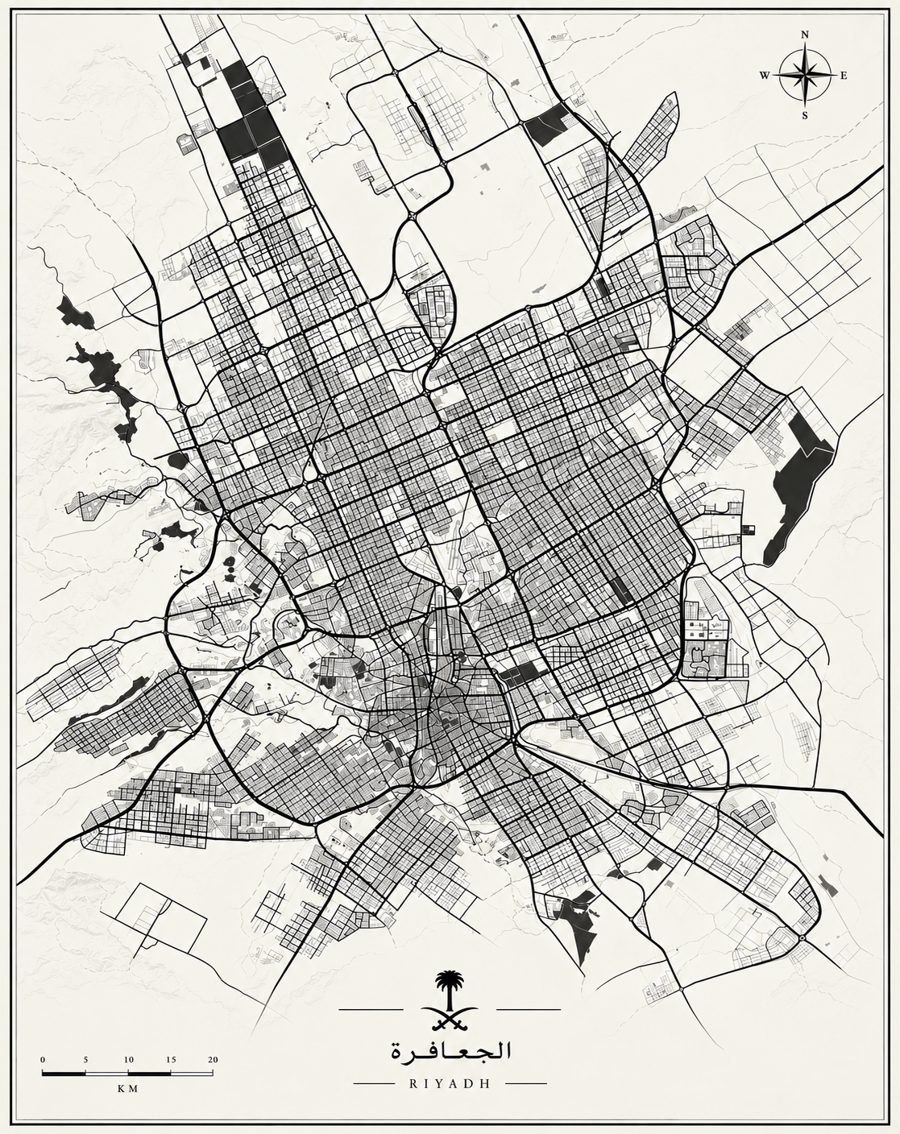
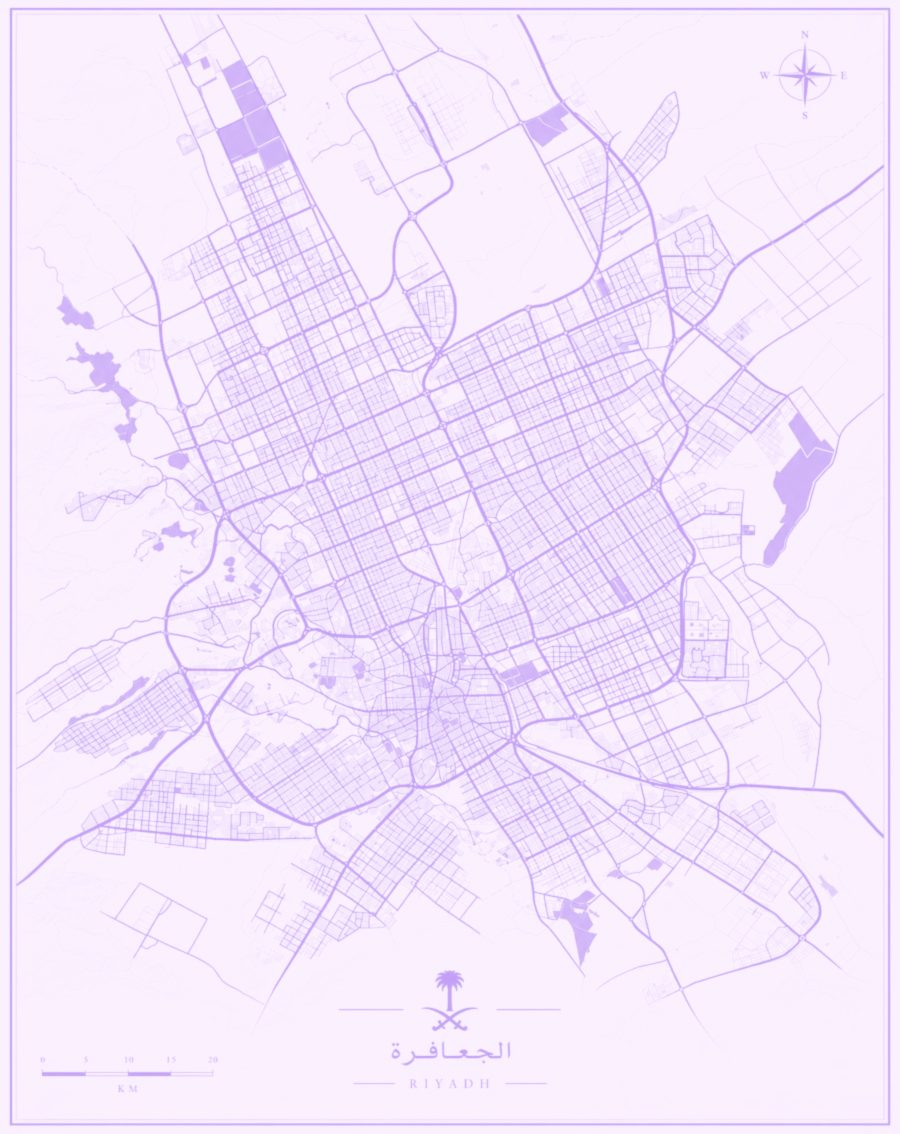
برا السالفة: خريطة قسم الجاسوس بألوان الموقع (بنفسجي فاتح وأخف)
Claude-Session: https://claude.ai/code/session_01B7z94MDfGPzHbShFpZmhZq

diff --git a/seenjeem/index.html b/seenjeem/index.html
@@ -25,13 +25,13 @@
 <script src="https://cdnjs.cloudflare.com/ajax/libs/qrcodejs/1.0.0/qrcode.min.js"></script>
 <script src="https://www.gstatic.com/firebasejs/10.12.2/firebase-app-compat.js"></script>
 <script src="https://www.gstatic.com/firebasejs/10.12.2/firebase-database-compat.js"></script>
-<script src="firebase-config.js?v=202610231047"></script>
-<script src="fncrypto.js?v=202610231047"></script>
-<script src="fnwake.js?v=202610231047"></script>
-<script src="fnfx.js?v=202610231047"></script>
-<script src="fnanim.js?v=202610231047"></script>
-<script src="shim.js?v=202610231047"></script>
-<script src="fnnight.js?v=202610231047"></script>
+<script src="firebase-config.js?v=202610231051"></script>
+<script src="fncrypto.js?v=202610231051"></script>
+<script src="fnwake.js?v=202610231051"></script>
+<script src="fnfx.js?v=202610231051"></script>
+<script src="fnanim.js?v=202610231051"></script>
+<script src="shim.js?v=202610231051"></script>
+<script src="fnnight.js?v=202610231051"></script>
 <style>
 /* Layout: a bright party-game board — lavender ground, white rounded cards; setup is one long page (name, teams, category cards with photos, settings) and the board is a grid of category columns, each with its cover and six cells */
 :root{
@@ -329,7 +329,7 @@ body.tv .media img.up{max-height:60vh}
 }
 @media (prefers-reduced-motion:reduce){*{animation:none!important;transition:none!important}}
 </style>
-<link rel="stylesheet" href="fntheme-sj.css?v=202610231047">
+<link rel="stylesheet" href="fntheme-sj.css?v=202610231051">
 
 <div class="wrap" dir="rtl" lang="ar">
   <nav class="gamesbar" aria-label="الألعاب"><a class="site" href="./" aria-label="الصفحة الرئيسية"><img src="favicon-64.png" alt="" width="22" height="22">Friday Night</a><a href="seenjeem/" class="on" aria-current="page">🎬 سين جيم</a><a href="outside/">🤫 برا السالفة</a><a href="sedq/">🤥 صدق ولا كذب</a><a href="mf/">👀 مين فينا؟</a><a href="draw/">🎨 ارسم وخمّن</a><a href="tv/">📺 شاشة العرض</a></nav>

diff --git a/draw/index.html b/draw/index.html
@@ -184,7 +184,7 @@ td.plus{color:var(--good)}
 .gamesbar a.site img{vertical-align:-5px;margin-inline-end:4px}
 @media (min-width:820px){.gamesbar{justify-content:center!important;margin-inline:0;padding-inline:0}}
 </style>
-<link rel="stylesheet" href="../fntheme.css?v=202610231047">
+<link rel="stylesheet" href="../fntheme.css?v=202610231051">
 </head>
 <body style="--game:#ff7a1a">
 <div class="wrap">
@@ -198,14 +198,14 @@ td.plus{color:var(--good)}
 <script src="https://cdnjs.cloudflare.com/ajax/libs/qrcodejs/1.0.0/qrcode.min.js"></script>
 <script src="https://www.gstatic.com/firebasejs/10.12.2/firebase-app-compat.js"></script>
 <script src="https://www.gstatic.com/firebasejs/10.12.2/firebase-database-compat.js"></script>
-<script src="../firebase-config.js?v=202610231047"></script>
-<script src="../fncrypto.js?v=202610231047"></script>
-<script src="../fnwake.js?v=202610231047"></script>
-<script src="board.js?v=202610231047"></script>
-<script src="../fnfx.js?v=202610231047"></script>
-<script src="../fnanim.js?v=202610231047"></script>
-<script src="../fnnight.js?v=202610231047"></script>
-<script src="app.js?v=202610231047"></script>
+<script src="../firebase-config.js?v=202610231051"></script>
+<script src="../fncrypto.js?v=202610231051"></script>
+<script src="../fnwake.js?v=202610231051"></script>
+<script src="board.js?v=202610231051"></script>
+<script src="../fnfx.js?v=202610231051"></script>
+<script src="../fnanim.js?v=202610231051"></script>
+<script src="../fnnight.js?v=202610231051"></script>
+<script src="app.js?v=202610231051"></script>
 <script>try{document.querySelector(".gamesbar .on").scrollIntoView({inline:"center",block:"nearest"})}catch(e){}</script>
 </body>
 </html>

diff --git a/mf/index.html b/mf/index.html
@@ -164,7 +164,7 @@ td.plus{color:var(--good)}
 .gamesbar a.site img{vertical-align:-5px;margin-inline-end:4px}
 @media (min-width:820px){.gamesbar{justify-content:center!important;margin-inline:0;padding-inline:0}}
 </style>
-<link rel="stylesheet" href="../fntheme.css?v=202610231047">
+<link rel="stylesheet" href="../fntheme.css?v=202610231051">
 </head>
 <body style="--game:#ffb21e">
 <div class="wrap">
@@ -178,13 +178,13 @@ td.plus{color:var(--good)}
 <script src="https://cdnjs.cloudflare.com/ajax/libs/qrcodejs/1.0.0/qrcode.min.js"></script>
 <script src="https://www.gstatic.com/firebasejs/10.12.2/firebase-app-compat.js"></script>
 <script src="https://www.gstatic.com/firebasejs/10.12.2/firebase-database-compat.js"></script>
-<script src="../firebase-config.js?v=202610231047"></script>
-<script src="../fncrypto.js?v=202610231047"></script>
-<script src="../fnwake.js?v=202610231047"></script>
-<script src="../fnfx.js?v=202610231047"></script>
-<script src="../fnanim.js?v=202610231047"></script>
-<script src="../fnnight.js?v=202610231047"></script>
-<script src="app.js?v=202610231047"></script>
+<script src="../firebase-config.js?v=202610231051"></script>
+<script src="../fncrypto.js?v=202610231051"></script>
+<script src="../fnwake.js?v=202610231051"></script>
+<script src="../fnfx.js?v=202610231051"></script>
+<script src="../fnanim.js?v=202610231051"></script>
+<script src="../fnnight.js?v=202610231051"></script>
+<script src="app.js?v=202610231051"></script>
 <script>try{document.querySelector(".gamesbar .on").scrollIntoView({inline:"center",block:"nearest"})}catch(e){}</script>
 </body>
 </html>

diff --git a/outside/index.html b/outside/index.html
@@ -129,7 +129,7 @@ td.plus{color:var(--good)}
 .gamesbar a.site img{vertical-align:-5px;margin-inline-end:4px}
 @media (min-width:820px){.gamesbar{justify-content:center!important;margin-inline:0;padding-inline:0}}
 </style>
-<link rel="stylesheet" href="../fntheme.css?v=202610231047">
+<link rel="stylesheet" href="../fntheme.css?v=202610231051">
 </head>
 <body style="--game:#f03e7a">
 <div class="wrap">
@@ -143,13 +143,13 @@ td.plus{color:var(--good)}
 <script src="https://cdnjs.cloudflare.com/ajax/libs/qrcodejs/1.0.0/qrcode.min.js"></script>
 <script src="https://www.gstatic.com/firebasejs/10.12.2/firebase-app-compat.js"></script>
 <script src="https://www.gstatic.com/firebasejs/10.12.2/firebase-database-compat.js"></script>
-<script src="../firebase-config.js?v=202610231047"></script>
-<script src="../fncrypto.js?v=202610231047"></script>
-<script src="../fnwake.js?v=202610231047"></script>
-<script src="../fnfx.js?v=202610231047"></script>
-<script src="../fnanim.js?v=202610231047"></script>
-<script src="../fnnight.js?v=202610231047"></script>
-<script src="app.js?v=202610231047"></script>
+<script src="../firebase-config.js?v=202610231051"></script>
+<script src="../fncrypto.js?v=202610231051"></script>
+<script src="../fnwake.js?v=202610231051"></script>
+<script src="../fnfx.js?v=202610231051"></script>
+<script src="../fnanim.js?v=202610231051"></script>
+<script src="../fnnight.js?v=202610231051"></script>
+<script src="app.js?v=202610231051"></script>
 <script>try{document.querySelector(".gamesbar .on").scrollIntoView({inline:"center",block:"nearest"})}catch(e){}</script>
 </body>
 </html>

diff --git a/sedq/index.html b/sedq/index.html
@@ -157,7 +157,7 @@ td.plus{color:var(--good)}
 .gamesbar a.site img{vertical-align:-5px;margin-inline-end:4px}
 @media (min-width:820px){.gamesbar{justify-content:center!important;margin-inline:0;padding-inline:0}}
 </style>
-<link rel="stylesheet" href="../fntheme.css?v=202610231047">
+<link rel="stylesheet" href="../fntheme.css?v=202610231051">
 </head>
 <body style="--game:#12a874">
 <div class="wrap">
@@ -171,13 +171,13 @@ td.plus{color:var(--good)}
 <script src="https://cdnjs.cloudflare.com/ajax/libs/qrcodejs/1.0.0/qrcode.min.js"></script>
 <script src="https://www.gstatic.com/firebasejs/10.12.2/firebase-app-compat.js"></script>
 <script src="https://www.gstatic.com/firebasejs/10.12.2/firebase-database-compat.js"></script>
-<script src="../firebase-config.js?v=202610231047"></script>
-<script src="../fncrypto.js?v=202610231047"></script>
-<script src="../fnwake.js?v=202610231047"></script>
-<script src="../fnfx.js?v=202610231047"></script>
-<script src="../fnanim.js?v=202610231047"></script>
-<script src="../fnnight.js?v=202610231047"></script>
-<script src="app.js?v=202610231047"></script>
+<script src="../firebase-config.js?v=202610231051"></script>
+<script src="../fncrypto.js?v=202610231051"></script>
+<script src="../fnwake.js?v=202610231051"></script>
+<script src="../fnfx.js?v=202610231051"></script>
+<script src="../fnanim.js?v=202610231051"></script>
+<script src="../fnnight.js?v=202610231051"></script>
+<script src="app.js?v=202610231051"></script>
 <script>try{document.querySelector(".gamesbar .on").scrollIntoView({inline:"center",block:"nearest"})}catch(e){}</script>
 </body>
 </html>

diff --git a/tv/index.html b/tv/index.html
@@ -164,7 +164,7 @@ body{font-size:20px}
 .gamesbar a.site img{vertical-align:-5px;margin-inline-end:4px}
 @media (min-width:820px){.gamesbar{justify-content:center!important;margin-inline:0;padding-inline:0}}
 </style>
-<link rel="stylesheet" href="../fntheme.css?v=202610231047">
+<link rel="stylesheet" href="../fntheme.css?v=202610231051">
 </head>
 <body style="--game:#7c3aed">
 <div class="wrap">
@@ -178,11 +178,11 @@ body{font-size:20px}
 <script src="https://cdnjs.cloudflare.com/ajax/libs/qrcodejs/1.0.0/qrcode.min.js"></script>
 <script src="https://www.gstatic.com/firebasejs/10.12.2/firebase-app-compat.js"></script>
 <script src="https://www.gstatic.com/firebasejs/10.12.2/firebase-database-compat.js"></script>
-<script src="../firebase-config.js?v=202610231047"></script>
-<script src="../draw/board.js?v=202610231047"></script>
-<script src="../fnfx.js?v=202610231047"></script>
-<script src="../fnanim.js?v=202610231047"></script>
-<script src="app.js?v=202610231047"></script>
+<script src="../firebase-config.js?v=202610231051"></script>
+<script src="../draw/board.js?v=202610231051"></script>
+<script src="../fnfx.js?v=202610231051"></script>
+<script src="../fnanim.js?v=202610231051"></script>
+<script src="app.js?v=202610231051"></script>
 <script>try{document.querySelector(".gamesbar .on").scrollIntoView({inline:"center",block:"nearest"})}catch(e){}</script>
 </body>
 </html>

diff --git a/index.html b/index.html
@@ -184,11 +184,11 @@ footer{text-align:center;color:var(--muted);font-size:14px;font-weight:700;margi
 
   <footer>Friday Night 🎉 ليالي الجمعة أحلى مع الشلة</footer>
 </div>
-<script src="fnfx.js?v=202610231047"></script>
-<script src="fninstall.js?v=202610231047"></script>
+<script src="fnfx.js?v=202610231051"></script>
+<script src="fninstall.js?v=202610231051"></script>
 <script src="https://www.gstatic.com/firebasejs/10.12.2/firebase-app-compat.js"></script>
 <script src="https://www.gstatic.com/firebasejs/10.12.2/firebase-database-compat.js"></script>
-<script src="firebase-config.js?v=202610231047"></script>
+<script src="firebase-config.js?v=202610231051"></script>
 <script>
 /* quick join: a code goes to the game that owns it.
    4 letters → the game of the night with that code, or whichever game has a room with it (newest wins).

diff --git a/pick/index.html b/pick/index.html
@@ -96,6 +96,6 @@ h3{margin:0;font-family:var(--f-display);font-size:17px}
     <button type="button" class="btn mt" data-act="closedone">تمام</button>
   </div>
 </div>
-<script src="app.js?v=202610231047"></script>
+<script src="app.js?v=202610231051"></script>
 </body>
 </html>
